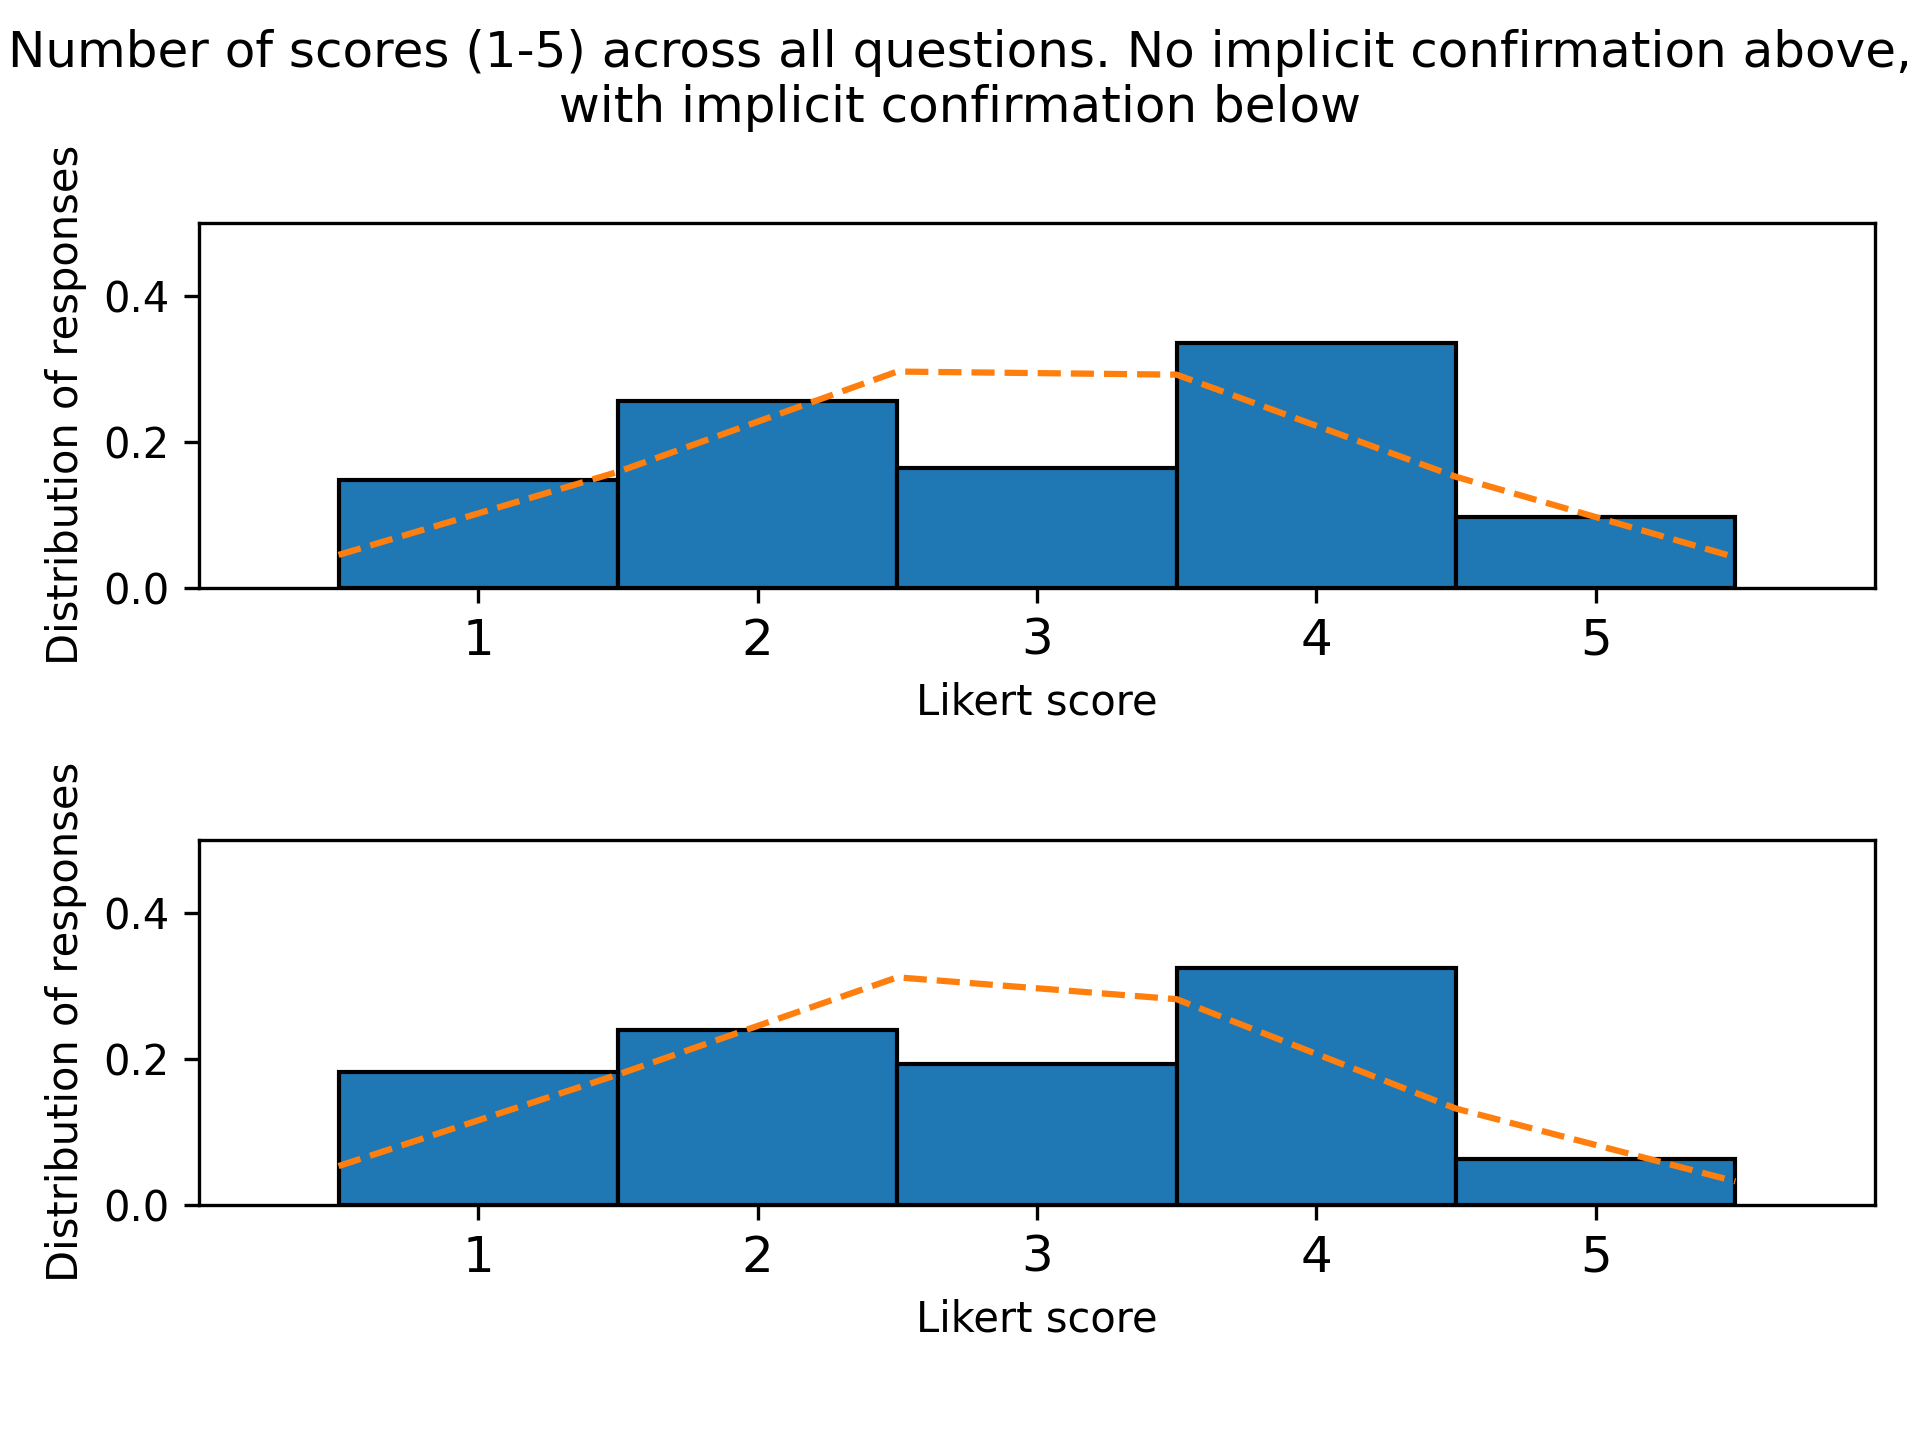
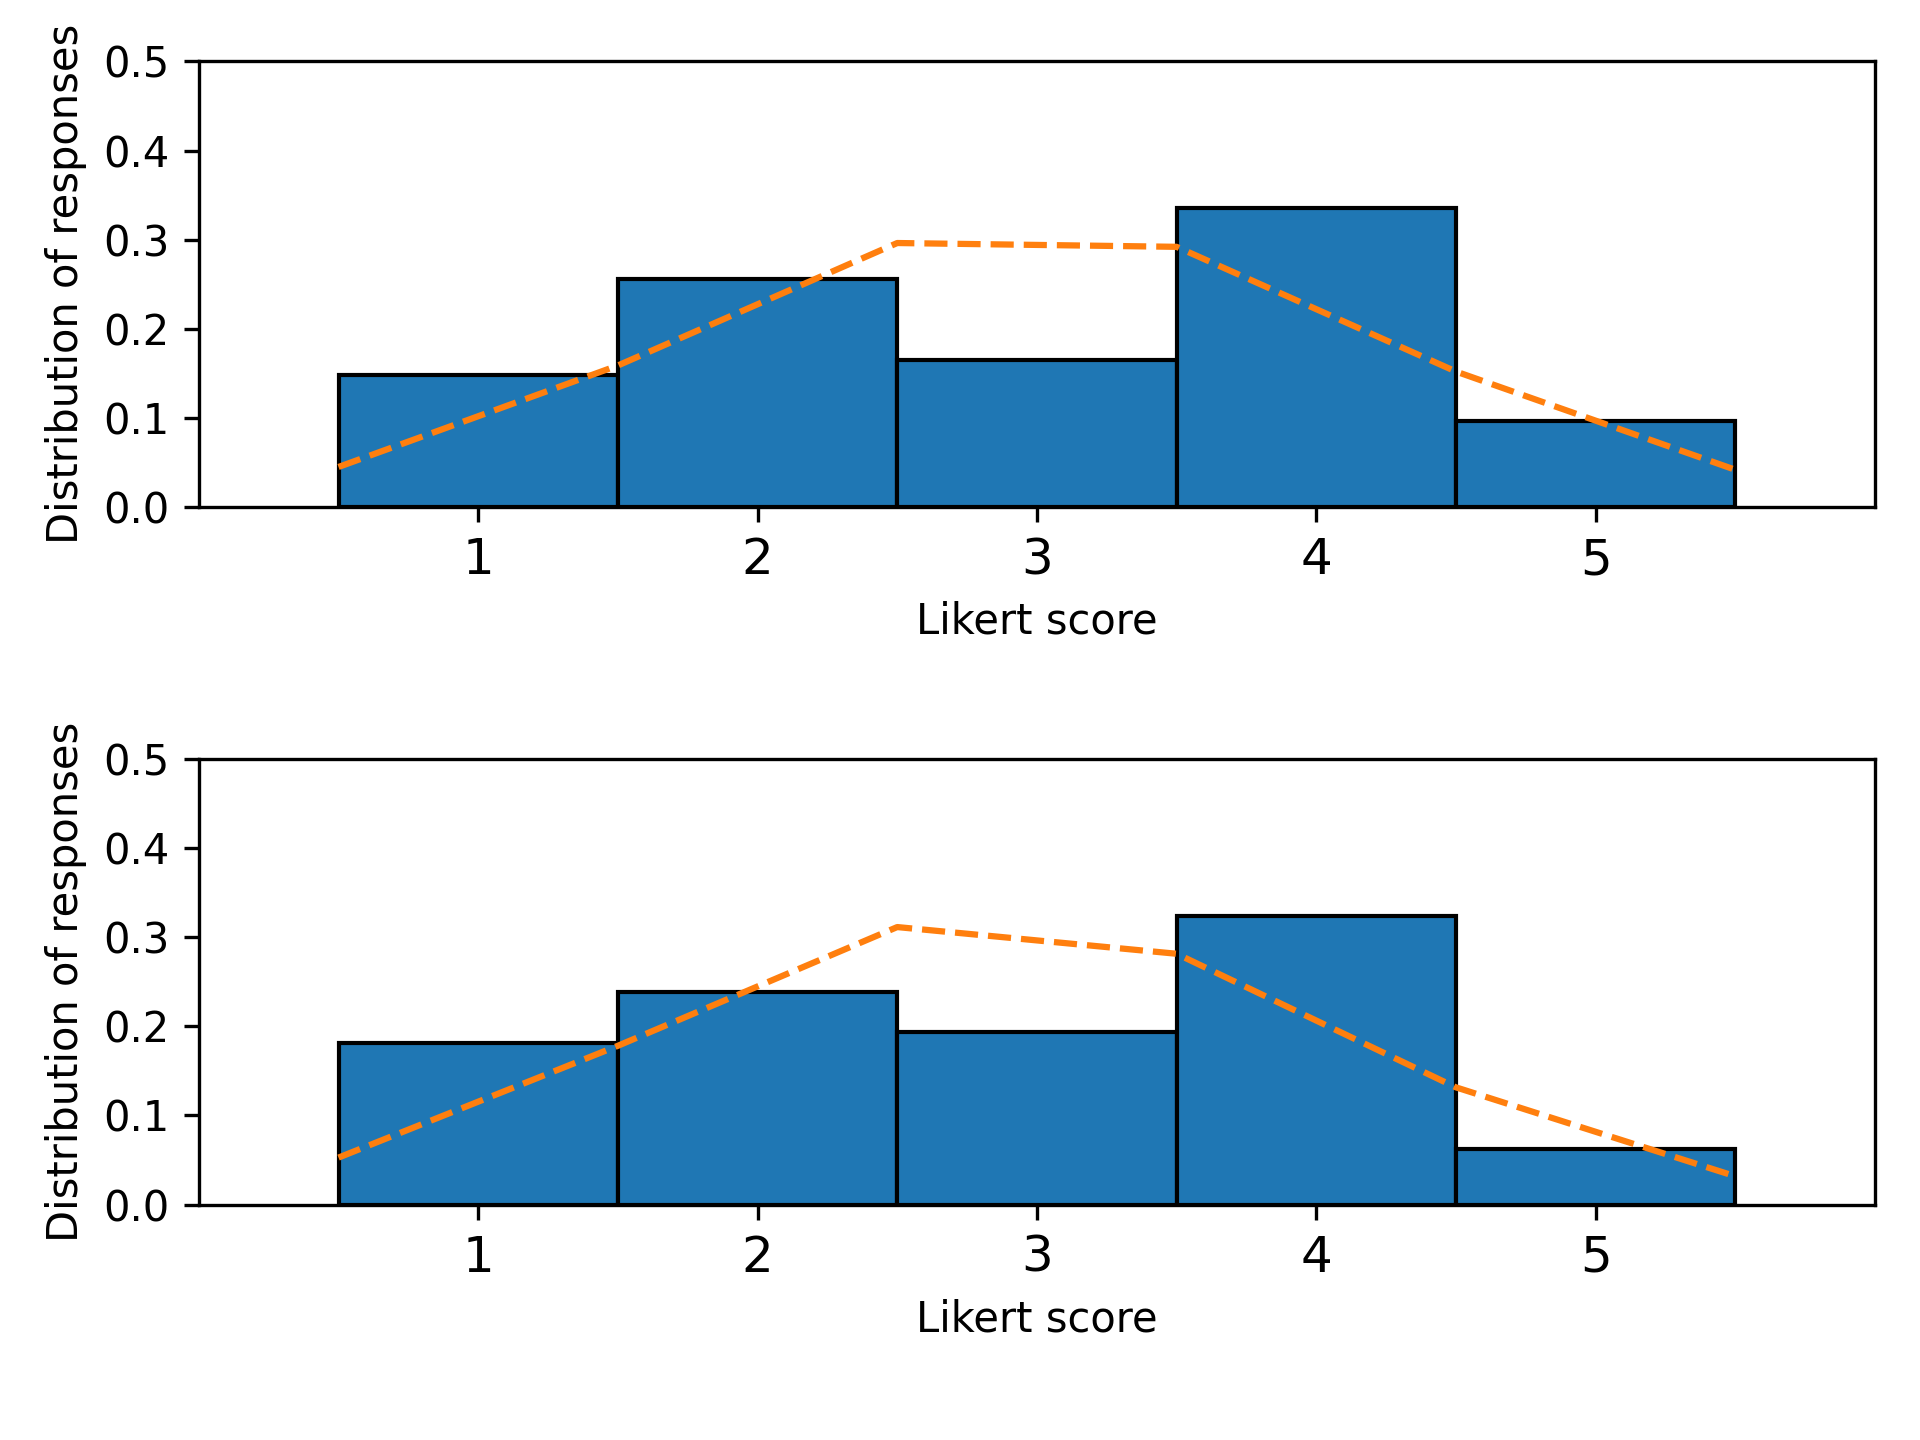
fixed 2 negated graphs

diff --git a/survey_graph.py b/survey_graph.py
@@ -112,26 +112,34 @@ def plot_bar_averages(graph_dictionary, save_file = False):
     x_tick_list.append(43)
     plt.xticks(x_tick_list, x_task_label_minified)
     plt.tick_params(axis='x', which='major', labelsize=8, rotation="auto")
-    plt.figtext(0.3, 0.90, "Average question score per group", wrap=True, horizontalalignment='center', fontsize=10)
+    #plt.figtext(0.3, 0.90, "Average question score per group", wrap=True, horizontalalignment='center', fontsize=10)
     plt.gcf().autofmt_xdate(rotation="vertical")
     plt.grid(axis='x', alpha=0.2)
     if save_file: plt.savefig("images/survey_group_averages.png", dpi=300)
     plt.show()
 
 def plot_error_bars(graph_dictionary, save_file=False):
-    a_1_mean = np.mean(graph_dictionary["a"]["first"])
-    b_2_mean = np.mean(graph_dictionary["b"]["second"])
-    a_2_mean = np.mean(graph_dictionary["a"]["second"])
-    b_1_mean = np.mean(graph_dictionary["b"]["first"])
-    without_impl = graph_dictionary["a"]["first"] + graph_dictionary["b"]["second"]
-    with_impl = graph_dictionary["a"]["second"] + graph_dictionary["b"]["first"]
+    a_1 = adj_negated(graph_dictionary["a"]["first"])
+    b_2 = adj_negated(graph_dictionary["b"]["second"])
+    a_2 = adj_negated(graph_dictionary["a"]["second"])
+    b_1 = adj_negated(graph_dictionary["b"]["first"])
+
+    a_1_mean = np.mean(a_1)
+    b_2_mean = np.mean(b_2)
+    a_2_mean = np.mean(a_2)
+    b_1_mean = np.mean(b_1)
+
+
+    without_impl = a_1 + b_2
+    with_impl = a_2 + b_1
     without_impl_mean = np.mean(without_impl)
     with_impl_mean = np.mean(with_impl)
 
-    a_1_std = np.std(graph_dictionary["a"]["first"])
-    b_2_std = np.std(graph_dictionary["b"]["second"])
-    a_2_std = np.std(graph_dictionary["a"]["second"])
-    b_1_std = np.std(graph_dictionary["b"]["first"])
+
+    a_1_std = np.std(a_1)
+    b_2_std = np.std(b_2)
+    a_2_std = np.std(a_2)
+    b_1_std = np.std(b_1)
     without_impl_std = np.std(without_impl)
     with_impl_std = np.std(with_impl)
 
@@ -158,7 +166,7 @@ def plot_error_bars(graph_dictionary, save_file=False):
     ax.set_ylabel('')
     ax.set_xticks(x_pos)
     ax.set_xticklabels(labels,rotation="30")
-    ax.set_title('Average response scores on all questions')
+    #ax.set_title('Average response scores on all questions')
     ax.yaxis.grid(True)
     ax.set_ylim(0, 5)
 
@@ -178,6 +186,7 @@ def plot_question_score_responses(grap_dictionary, save_file = False, condensed 
                 data = graph_dictionary["implicit_responses"][i % 8]
                 main_index = 1
 
+            data = adj_negated(data)
             ax[main_index][i % 8].set_xticks(np.arange(1, 6))
             ax[main_index][i % 8].set_xticklabels(np.arange(1, 6), fontsize=18)
             ax[main_index][i % 8].set_xlim(0, 6)
@@ -201,7 +210,7 @@ def plot_question_score_responses(grap_dictionary, save_file = False, condensed 
 
         ax[0][0].set_ylabel("# of responses", fontsize=21)
         ax[1][0].set_ylabel("# of responses", fontsize=21)
-        fig.suptitle("Number of scores (1-5) per question. No implicit confirmation above,\n with implicit confirmation below ",fontsize=21)
+        #fig.suptitle("Number of scores (1-5) per question. No implicit confirmation above,\n with implicit confirmation below ",fontsize=21)
         plt.tight_layout()
         if save_file: plt.savefig('images/hist_question_score_responses.png', dpi=100)
 
@@ -212,8 +221,10 @@ def plot_question_score_responses(grap_dictionary, save_file = False, condensed 
 
         data1_nonflat = graph_dictionary["non_implicit_responses"]
         data2_nonflat = graph_dictionary["implicit_responses"]
-        data1 = [abs(item-6) if index % 2 != 0 else item for sublist in data1_nonflat for index, item in enumerate(sublist)]
-        data2 = [abs(item-6) if index % 2 != 0 else item for sublist in data2_nonflat for index, item in enumerate(sublist)]
+        data1 = [item for sublist in data1_nonflat for item in sublist]
+        data2 = [item for sublist in data2_nonflat for item in sublist]
+        data1 = adj_negated(data1)
+        data2 = adj_negated(data2)
 
         ax[0].set_xticks(np.arange(1,6))
         ax[0].set_xticklabels(np.arange(1, 6), fontsize=12)
@@ -249,12 +260,14 @@ def plot_question_score_responses(grap_dictionary, save_file = False, condensed 
         ax[1].set_ylabel("Distribution of responses")
         ax[1].set_xlabel("Likert score\n"+with_implicit)
 
-        fig.suptitle("Number of scores (1-5) across all questions. No implicit confirmation above,\n with implicit confirmation below ")
+        #fig.suptitle("Number of scores (1-5) across all questions. No implicit confirmation above,\n with implicit confirmation below ")
         fig.tight_layout()
         if save_file: plt.savefig('images/hist_question_score_responses_condensed.png', dpi=300)
 
     plt.show()
 
+def adj_negated(questions_list):
+    return [abs(item-6) if index % 2 != 0 else item for index, item in enumerate(questions_list)]
 
 save_stuff = True
 graph_dictionary = get_graph_dictionary("participant_survey.csv")
